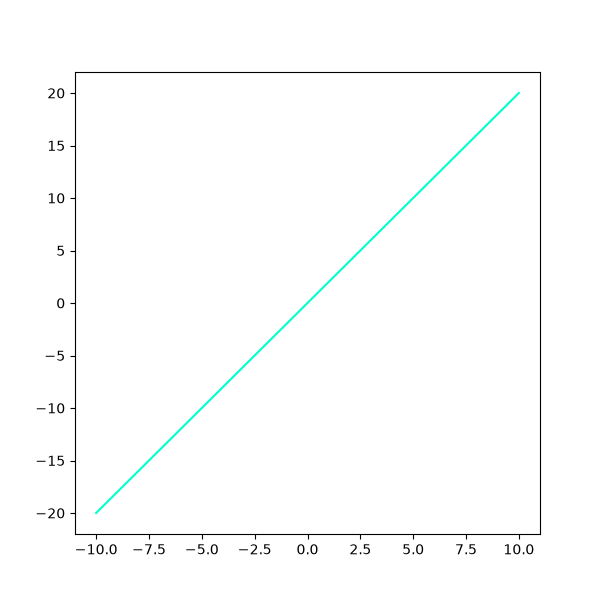
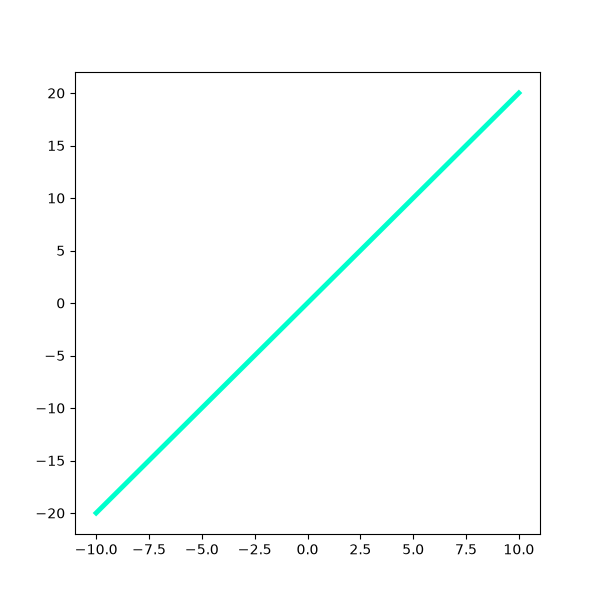
ar

diff --git a/client/app.js b/client/app.js
@@ -64,10 +64,11 @@ captureBtn.addEventListener('click', async () => {
     if (!response.ok) throw new Error("Failed to process image.");
 
     const data = await response.json();
-    console.log("Extraction complete:", data);
-
-    // 4. Redirect to AR.html with the target image filename in query params
-    window.location.href = `/AR.html?filename=${encodeURIComponent(data.filename)}`;
+    if (data.error){
+      console.alert(data.error)
+    } else{
+      window.location.href = `/AR.html?filename=${encodeURIComponent(data.filename)}`;
+    }
     
   } catch (err) {
     if (err.name === 'AbortError') {

diff --git a/main.py b/main.py
@@ -71,12 +71,12 @@ async def extract_math(payload: ImagePayload):
             graphing.latex_conversion(extracted_text,extracted_text)
         except Exception as e:
             print(f"[Graphing Error]: {e}")
+            return {"error": f"Text we extracted: {extracted_text}, if this was not your function please try again."}
 
         safe_filename = re.sub(r'[/\\:*?"<>|]', '_', extracted_text).strip()
         if not safe_filename:
             safe_filename = "output_plot"
         filename = f"{safe_filename}.png"
-        file_path = os.path.join(PLOTS_DIR, filename)
         clean_filename = os.path.basename(filename)
 
         return {"latex": extracted_text, "filename": clean_filename}

diff --git a/graphing.py b/graphing.py
@@ -18,7 +18,7 @@ def latex_conversion(latex: str, filename: str, ) -> bool:
 
     fig, ax = plt.subplots(figsize=(6, 6))
 
-    ax.plot(x_values, y_values, color='#00ffcc')
+    ax.plot(x_values, y_values, color='#00ffcc', linewidth=3.5)
 
     output_dir = "plots"
     os.makedirs(output_dir, exist_ok=True)
